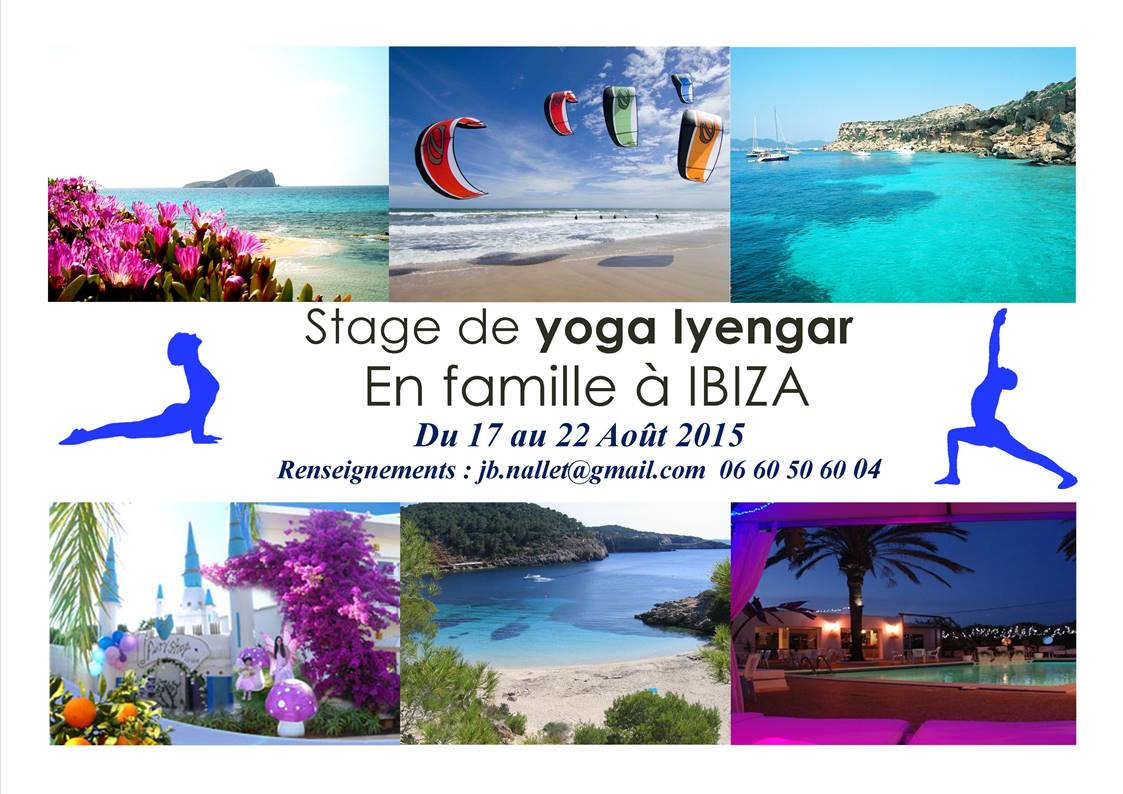
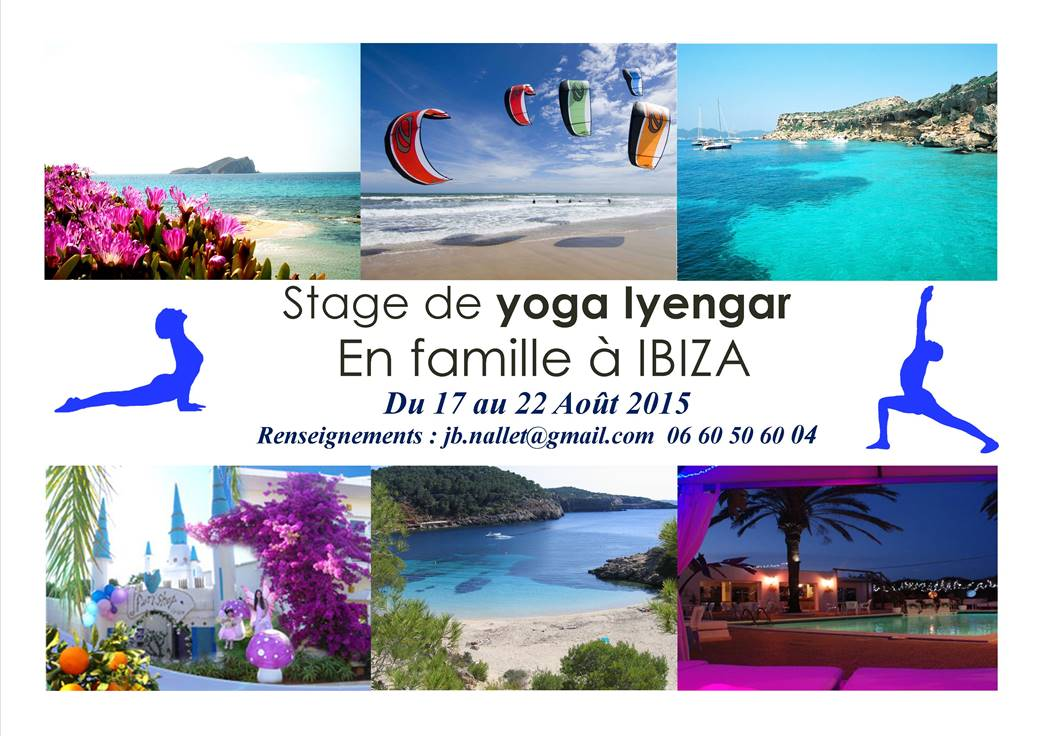
maj

diff --git a/index.html b/index.html
@@ -400,7 +400,7 @@ Septembre</h2>
 
 <p class=MsoNormal align=center style='text-align:center'><a
 href="#_Stage_de_Yoga"><span style='color:windowtext;text-decoration:none'><img
-border=0 width=1123 height=794 id="Image 37" src="index_fichiers/image004.jpg"></span></a></p>
+border=0 width=1041 height=736 id="Image 37" src="index_fichiers/image004.jpg"></span></a></p>
 
 <div style='border:none;border-bottom:solid #C00000 1.5pt;padding:0cm 0cm 1.0pt 0cm'>
 
@@ -799,7 +799,7 @@ Santa Eularia del&nbsp;Rio IBIZA&nbsp; Espagne. <i>Tel:(+34) 971330 452</i></p>
 target="_blank">http://www.cielazulibiza.com/lang/fr</a></p>
 
 <p class=MsoNormal align=center style='text-align:center;line-height:normal'><img
-border=0 width=628 height=224 src="index_fichiers/image013.gif"
+border=0 width=739 height=264 src="index_fichiers/image013.gif"
 alt=presentation></p>
 
 <h3>Logement</h3>
@@ -817,7 +817,7 @@ un poste <b>internet-wifi</b>, et divers services&nbsp;: <b>gardes d’enfants</
 <h3>Plage et environs</h3>
 
 <p class=MsoNormal align=center style='text-align:center'><img border=0
-width=461 height=351 src="index_fichiers/image014.gif" alt="Es Cana Ibiza"></p>
+width=840 height=639 src="index_fichiers/image014.gif" alt="Es Cana Ibiza"></p>
 
 <p class=MsoNormal>A quelques dizaines de mètres, la <b>Cala Martina</b>, très
 belle plage de sable doré, vous propose ses restaurants au bord de l’eau,
@@ -826,7 +826,7 @@ chaises longues, club de <b>plongée</b>, <b>club de voile</b>, <b>windsurf</b>,
 aquatiques.</p>
 
 <p class=MsoNormal align=center style='text-align:center'><img border=0
-width=446 height=304 src="index_fichiers/image015.gif"
+width=849 height=579 src="index_fichiers/image015.gif"
 alt="http://www.spainted.com/ibiza/beaches-of-ibiza/cala-martina.jpg"></p>
 
 <p class=MsoNormal>A 1,50 km, découvrez le petit <b>port de Es Canar</b> très
@@ -834,7 +834,7 @@ animé le soir avec ses nombreux bars et restaurants et son marché hippie
 (ouvert les mercredis).</p>
 
 <p class=MsoNormal align=center style='text-align:center'><img border=0
-width=454 height=310 src="index_fichiers/image016.gif"
+width=812 height=554 src="index_fichiers/image016.gif"
 alt="Villas in Santa Eulia"></p>
 
 <p class=MsoNormal>A 4 km, <b>Santa-Eularia</b>, charmante petite ville
@@ -1075,7 +1075,7 @@ target="_blank">https://www.facebook.com/pages/Comme-Un-Monde-D%C3%A9co-Ethnique
 </div>
 
 <p class=MsoNormal align=center style='text-align:center'><img border=0
-width=1170 height=702 id="Image 27" src="index_fichiers/image006.jpg"
+width=1029 height=617 id="Image 27" src="index_fichiers/image006.jpg"
 alt="http://static.guim.co.uk/sys-images/Guardian/Pix/pictures/2014/8/22/1408711340928/BKS-Iyengar-Yoga-Conventi-014.jpg"></p>
 
 </div>
